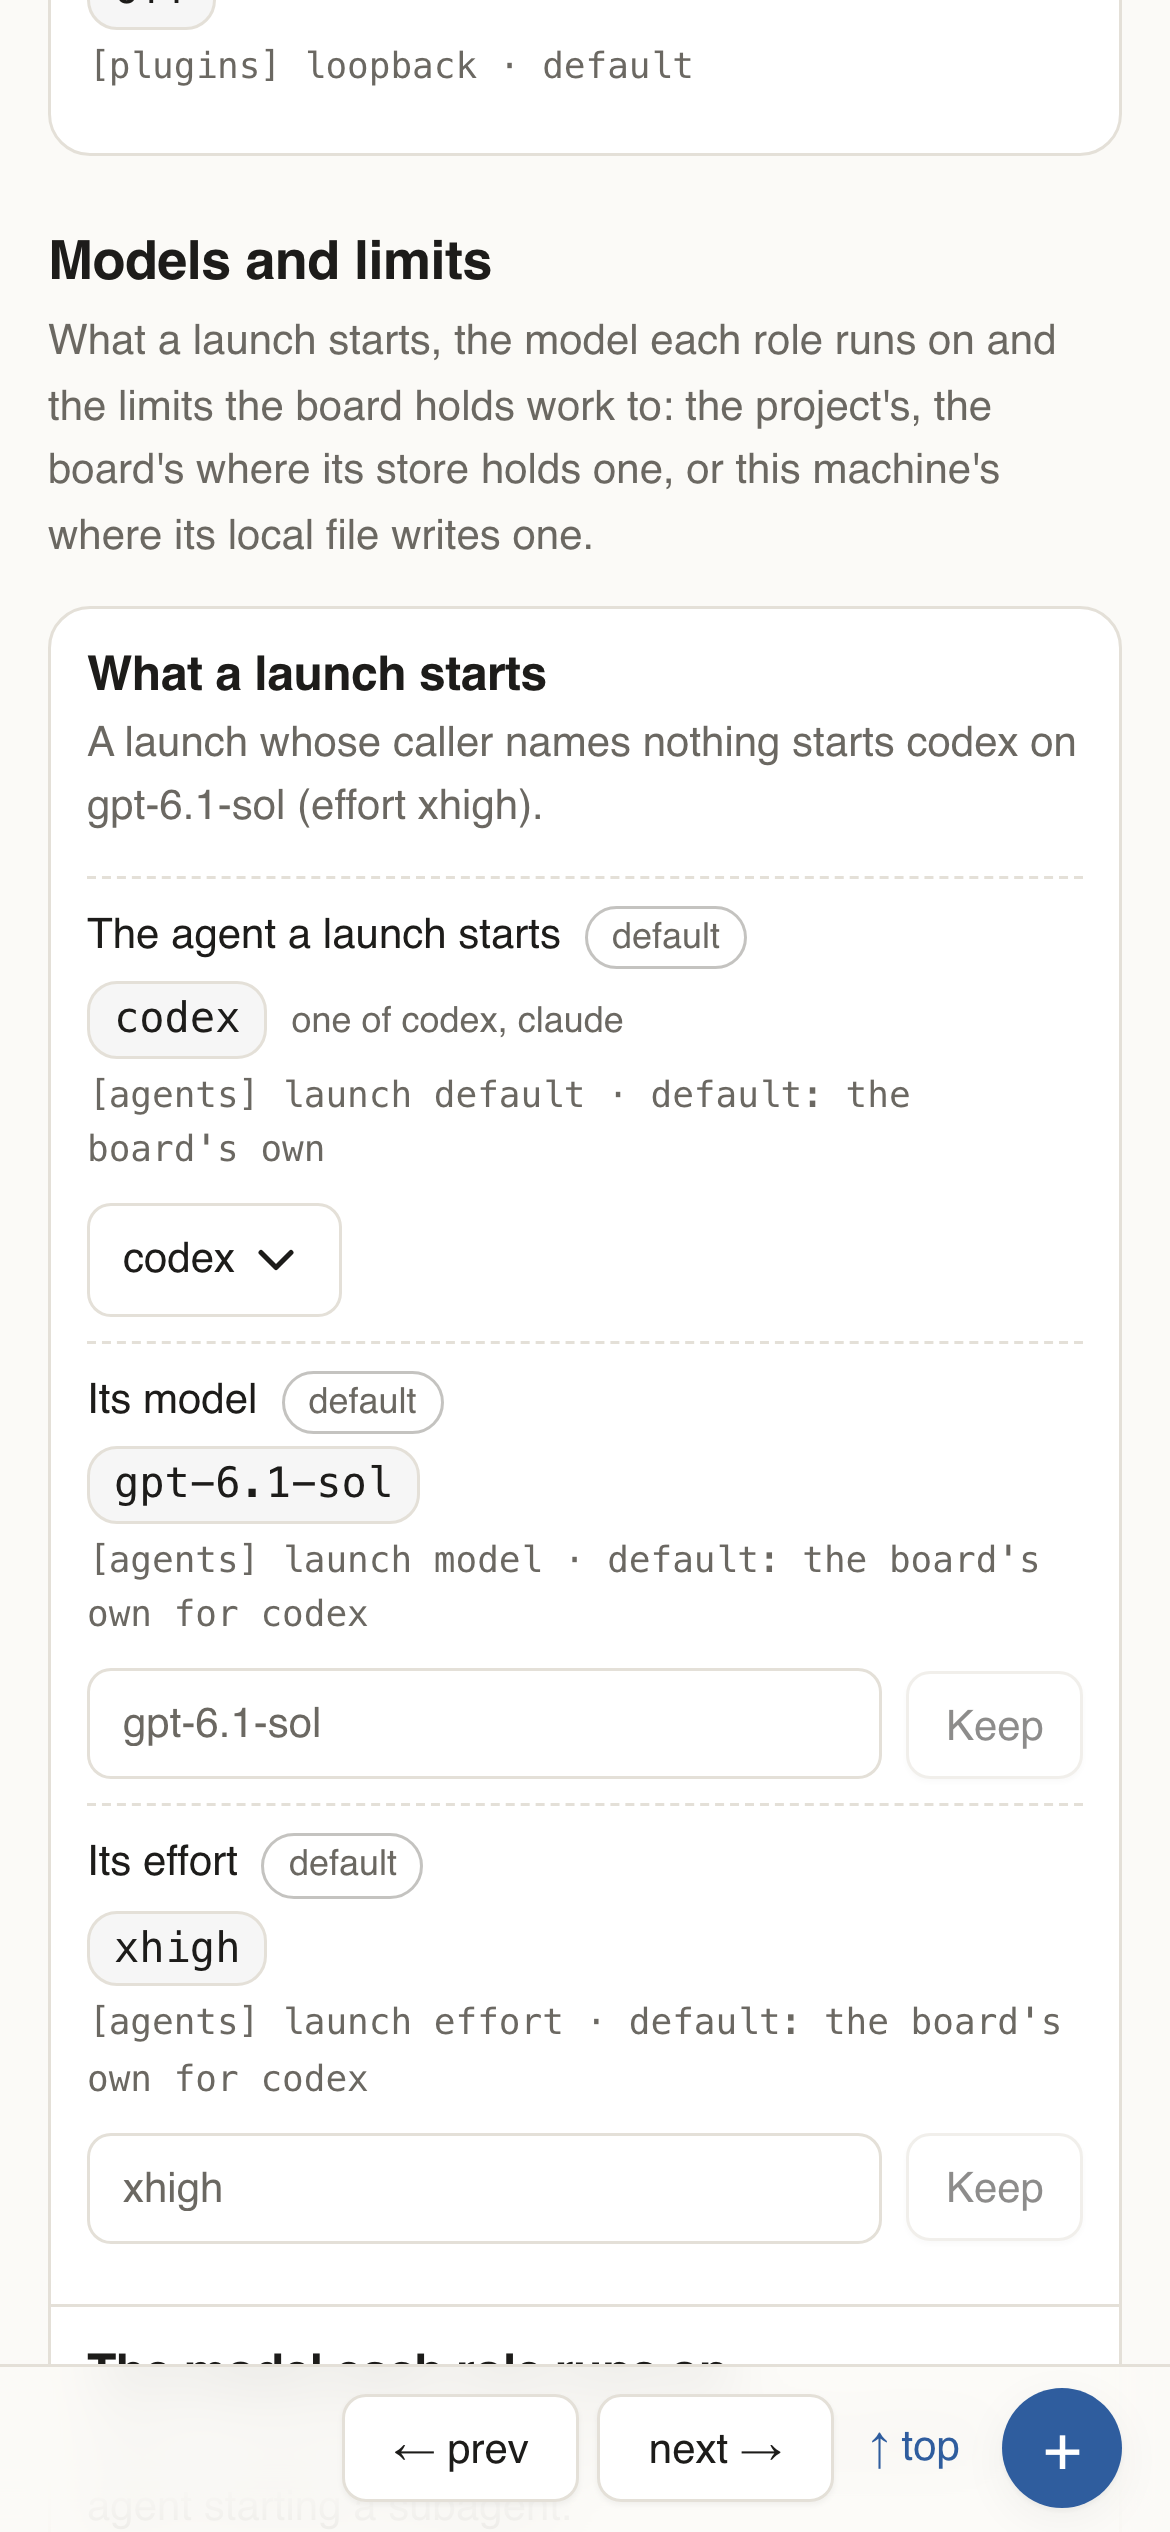
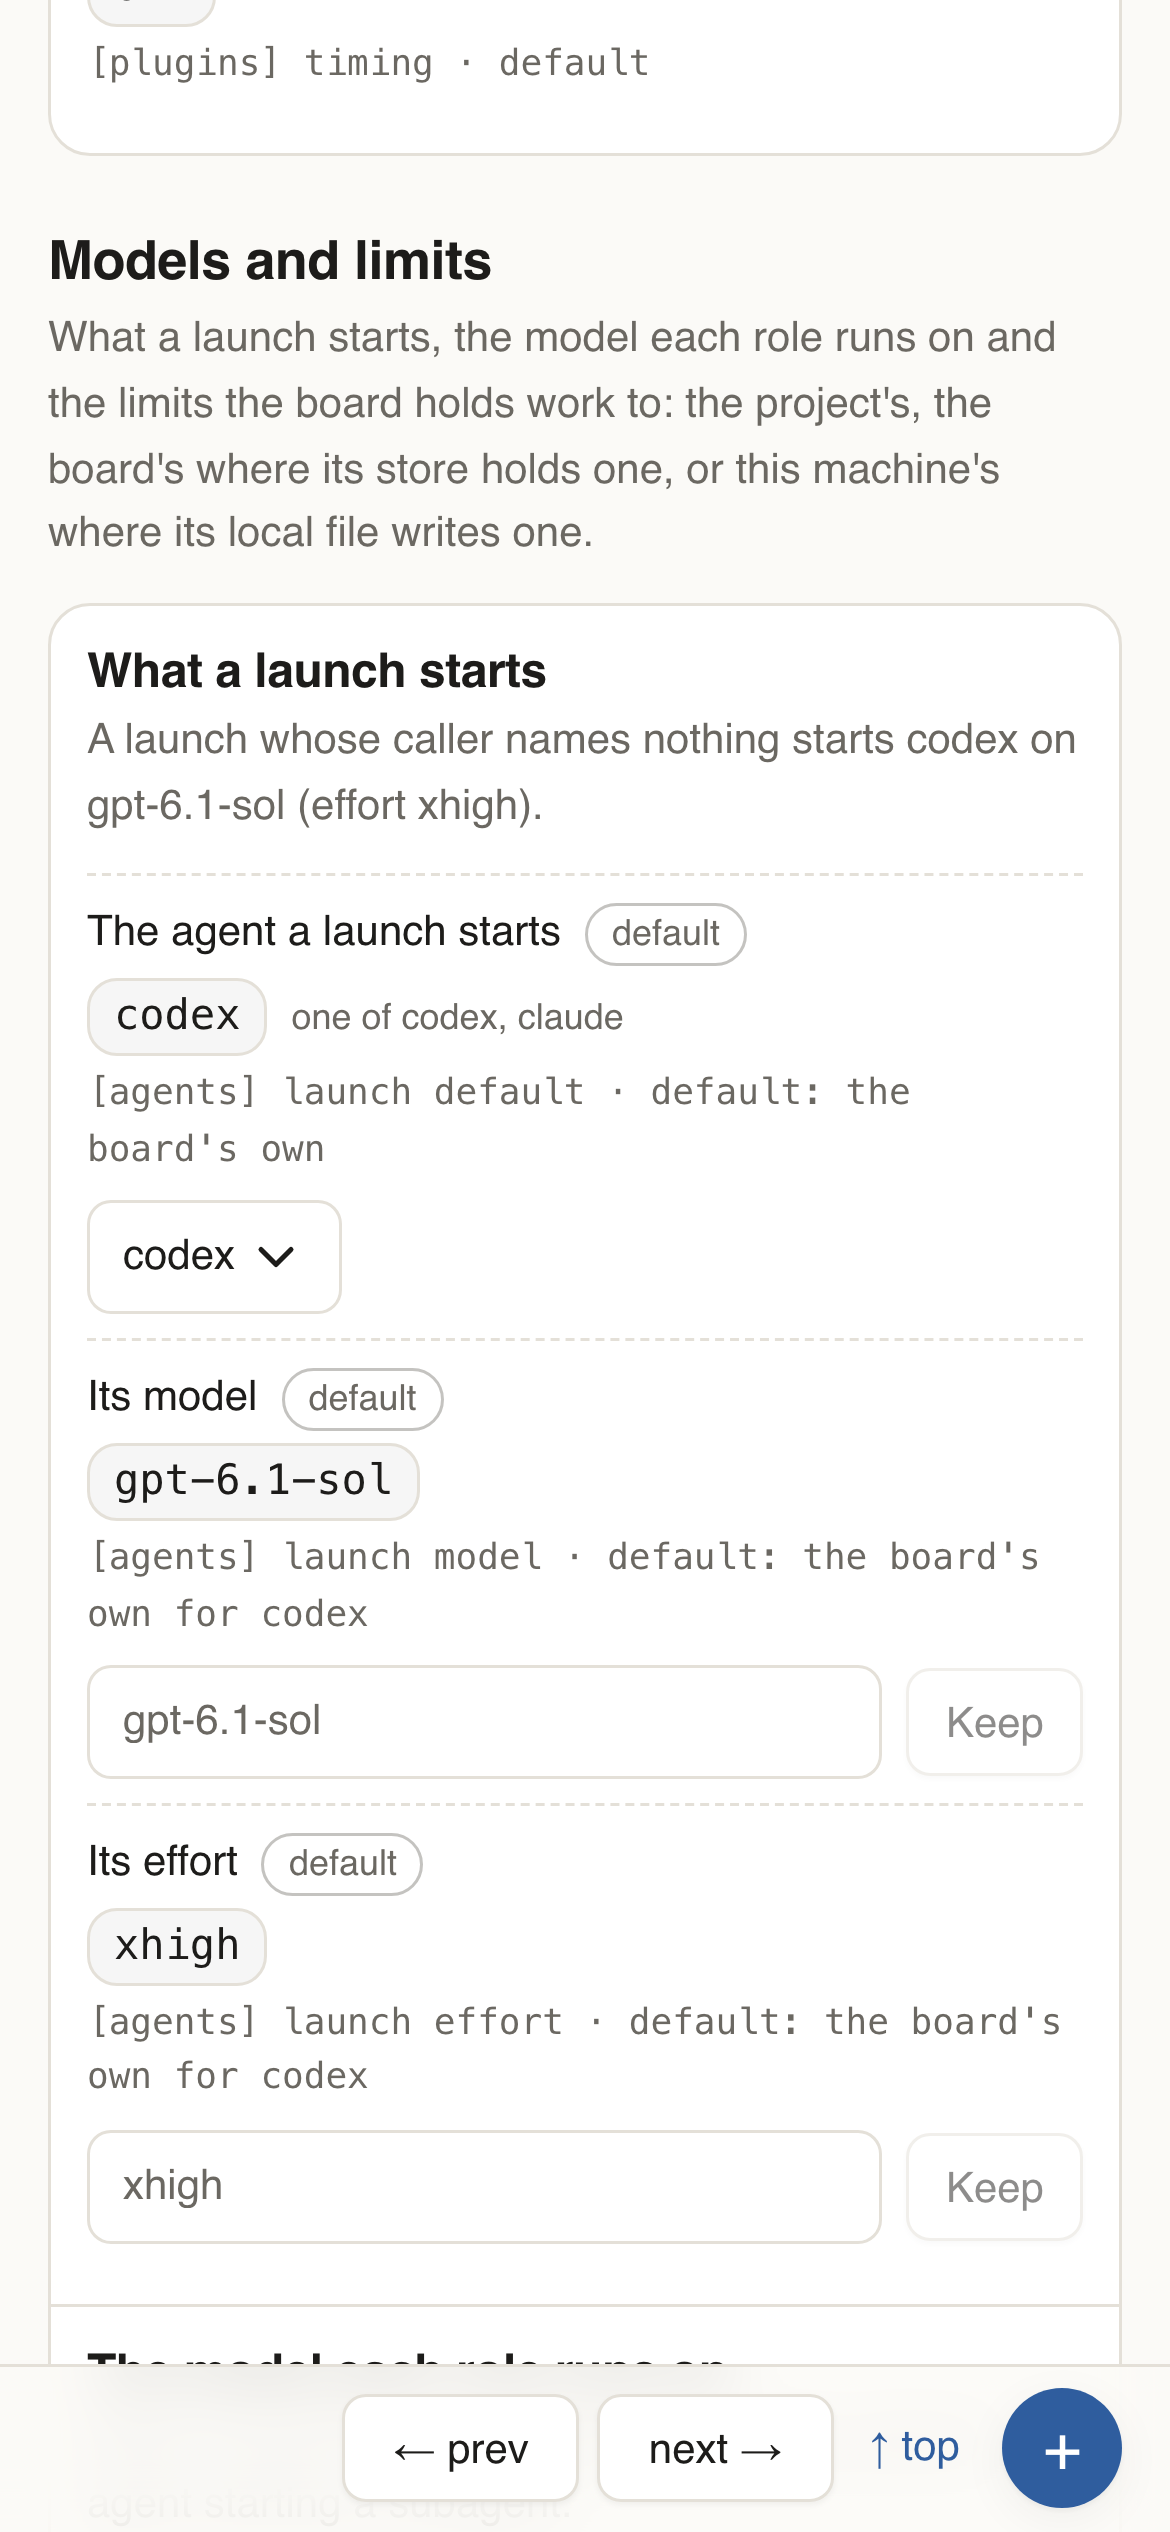
app/settings-row-of-a-gone-key
The Settings page drew a row for `[plugins] loopback`, a key the project
file refuses as unknown (docs/operations/PROJECT_FILE.md): the row is
gone, and a test holds every row the page shows to a key the project
file's reference lists, beside the one that holds every listed key to a
row. The Settings pictures are retaken: the row's removal moves the page
below the Plugins entry and the wide scroll bar.

tools/product-pictures.sh no longer puts a picture in place whose page
says the board is unwell or starting: each shot reads the page just
before and just after it captures it into the work folder, and a refused
picture is taken again once the server's feed says its notice no longer
says it, with no sleep and no deadline. Its sweep of what runs against
the work folder now matches the servers by their --root and --home and
the board's PostgreSQL by its data folder, nothing else that names it.

diff --git a/crates/symphony/tests/project/settings.rs b/crates/symphony/tests/project/settings.rs
@@ -1,8 +1,8 @@
 //! The Settings page's read (`symphony::settings::page`): each value in force with where it was
 //! written, for a project with no file, with a project file, the board's store over it and a
-//! local file over both, and a project file or a store that does not load said as such; and the
+//! local file over both, and a project file or a store that does not load said as such; the
 //! class of every key of the reference, which the read takes from the local settings file's
-//! lists.
+//! lists; and every key of the reference on the page, and no other.
 
 use std::collections::BTreeSet;
 use std::os::unix::fs::PermissionsExt;
@@ -925,6 +925,28 @@ fn every_key_of_the_reference_has_the_class_the_local_file_s_lists_give_it() {
     }
 }
 
+/// The table a setting of the page is written in, as the path to it, and its key there, empty for
+/// a table said whole (`[stamps]`, `[[entrypoints]]`); none for the device's, the one setting no
+/// file writes. `[agents] launch model` is `[agents.launch]`'s `model`, as `just tasks limits`
+/// spells it.
+fn written_as(setting: &Setting) -> Option<(Vec<&str>, &str)> {
+    let Some((table, key)) = setting
+        .key
+        .strip_prefix('[')
+        .and_then(|k| k.trim_start_matches('[').split_once(']'))
+    else {
+        assert_eq!(setting.key, "appearance", "no key of the project file");
+        return None;
+    };
+    let mut path: Vec<&str> = table.split('.').collect();
+    let mut key = key.trim_start_matches(']').trim();
+    if let Some(of) = key.strip_prefix("launch ") {
+        path.push("launch");
+        key = of;
+    }
+    Some((path, key))
+}
+
 #[test]
 fn every_setting_the_page_shows_has_the_class_and_the_scopes_of_its_key() {
     let tree = Tree::new();
@@ -932,26 +954,9 @@ fn every_setting_the_page_shows_has_the_class_and_the_scopes_of_its_key() {
     let page = page(&tree.root, &bare());
     let mut shown = BTreeSet::new();
     for setting in settings(&page) {
-        let Some((table, key)) = setting
-            .key
-            .strip_prefix('[')
-            .and_then(|k| k.trim_start_matches('[').split_once(']'))
-        else {
-            // The device's is no key of the project file.
-            assert!(
-                ["appearance"].contains(&setting.key.as_str()),
-                "{}",
-                setting.key
-            );
+        let Some((path, key)) = written_as(setting) else {
             continue;
         };
-        let mut path: Vec<&str> = table.split('.').collect();
-        let mut key = key.trim_start_matches(']').trim();
-        // `[agents] launch model`, as `just tasks limits` spells it.
-        if let Some(of) = key.strip_prefix("launch ") {
-            path.push("launch");
-            key = of;
-        }
         assert_eq!(setting.class, class(path[0], key), "{}", setting.key);
         assert_eq!(setting.scopes, scopes(&path, key), "{}", setting.key);
         shown.insert((path[0].to_string(), key.to_string()));
@@ -982,6 +987,38 @@ fn every_setting_the_page_shows_has_the_class_and_the_scopes_of_its_key() {
             .any(|(t, k)| *t == table && (*k == "*" || *k == key));
         assert!(whole || named || left, "{heading} {key} is not on the page");
     }
+}
+
+#[test]
+fn every_setting_the_page_shows_is_one_the_project_file_reads() {
+    // The reference lists every key the project file reads and no other (`reference.rs`), so a
+    // key it does not list, a removed one among them, is one the file refuses: a row of it would
+    // show a setting no file can write. The Symphony's own entries alone: a describer's are its
+    // program's to name.
+    let tree = Tree::new();
+    tree.write("symphony.toml", PROJECT);
+    let page = page(&tree.root, &bare());
+    let reference = listed(&read(REFERENCE));
+    let table = |heading: &str| heading.trim_matches(|c| c == '[' || c == ']').to_string();
+    let keys: BTreeSet<(String, &str)> = reference
+        .iter()
+        .map(|(heading, key)| (table(heading), key.as_str()))
+        .collect();
+    let mut seen = 0;
+    for setting in settings(&page) {
+        let Some((path, key)) = written_as(setting) else {
+            continue;
+        };
+        let path = path.join(".");
+        let known = if key.is_empty() {
+            keys.iter().any(|(listed, _)| *listed == path)
+        } else {
+            keys.contains(&(path, key))
+        };
+        assert!(known, "{} is no setting the project file reads", setting.key);
+        seen += 1;
+    }
+    assert!(seen > 50, "the page shows its settings: {seen}");
 }
 
 #[test]

diff --git a/crates/symphony/src/settings.rs b/crates/symphony/src/settings.rs
@@ -549,13 +549,6 @@ fn plugins(file: &FileRead, project: &Project) -> SettingsEntry {
                 SettingKind::Switch,
                 "off",
             ),
-            file.setting(
-                &["plugins"],
-                "loopback",
-                "Send each call through a JSON round trip",
-                SettingKind::Switch,
-                "off",
-            ),
         ],
         ..entry(
             "plugins",

diff --git a/docs/product/README.md b/docs/product/README.md
@@ -70,6 +70,11 @@ first.
   reach it (`--click`, `--type`, `--key`). A state the fixture lacks is added to the fixture, a
   task's to `board.sh`, a run's or an hour's to `records.sh`. Only a picture a document shows is taken and committed.
 - **One command retakes them all**, or those named: `tools/product-pictures.sh queue`.
+- **No picture says the board is unwell.** A failed pass of the fixture board's callback dispatch,
+  as a loaded machine can make, has every page say so for a minute or more. So the script reads
+  each page once it has captured it, and puts no picture in place whose page said "The task board
+  is unwell" or "is starting": it waits until the server's notice no longer says it and takes that
+  picture again.
 - **A retake that changes nothing writes the same bytes**, so after one, `git status docs/product`
   lists exactly the pictures that had gone stale. That holds on one Chrome, one set of fonts and
   one machine's scroll bars (macOS draws a wide page's bar or not by its *Show scroll bars*
